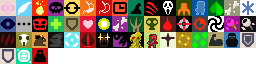
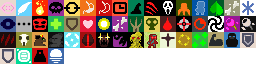
* Moongrace - wip

Changed region(s): [[0.1875, 0.75, 0.25, 1.0]]

diff --git a/RemixedDungeon/src/main/java/com/watabou/pixeldungeon/plants/Moongrace.java b/RemixedDungeon/src/main/java/com/watabou/pixeldungeon/plants/Moongrace.java
@@ -19,7 +19,6 @@ package com.watabou.pixeldungeon.plants;
 
 import com.nyrds.pixeldungeon.levels.objects.Presser;
 import com.nyrds.pixeldungeon.mechanics.CommonActions;
-import com.nyrds.pixeldungeon.mechanics.buffs.ManaRegen;
 import com.nyrds.pixeldungeon.ml.R;
 import com.nyrds.platform.util.StringsManager;
 import com.watabou.pixeldungeon.Dungeon;
@@ -44,7 +43,7 @@ public class Moongrace extends Plant {
 
 	public void effect(int pos, Presser ch) {
 		if (ch instanceof Char) {
-			Buff.affect((Char)(ch), ManaRegen.class);
+			Buff.affect((Char)(ch), com.nyrds.pixeldungeon.mechanics.buffs.Moongrace.class);
 		}
 
 		if(ch instanceof Mob) {

diff --git a/RemixedDungeon/src/main/java/com/nyrds/pixeldungeon/mechanics/buffs/Moongrace.java b/RemixedDungeon/src/main/java/com/nyrds/pixeldungeon/mechanics/buffs/Moongrace.java
@@ -12,7 +12,7 @@ import com.watabou.pixeldungeon.ui.BuffIndicator;
 
 import org.jetbrains.annotations.NotNull;
 
-public class ManaRegen extends Buff {
+public class Moongrace extends Buff {
 
     private static final float STEP = 5f;
 
